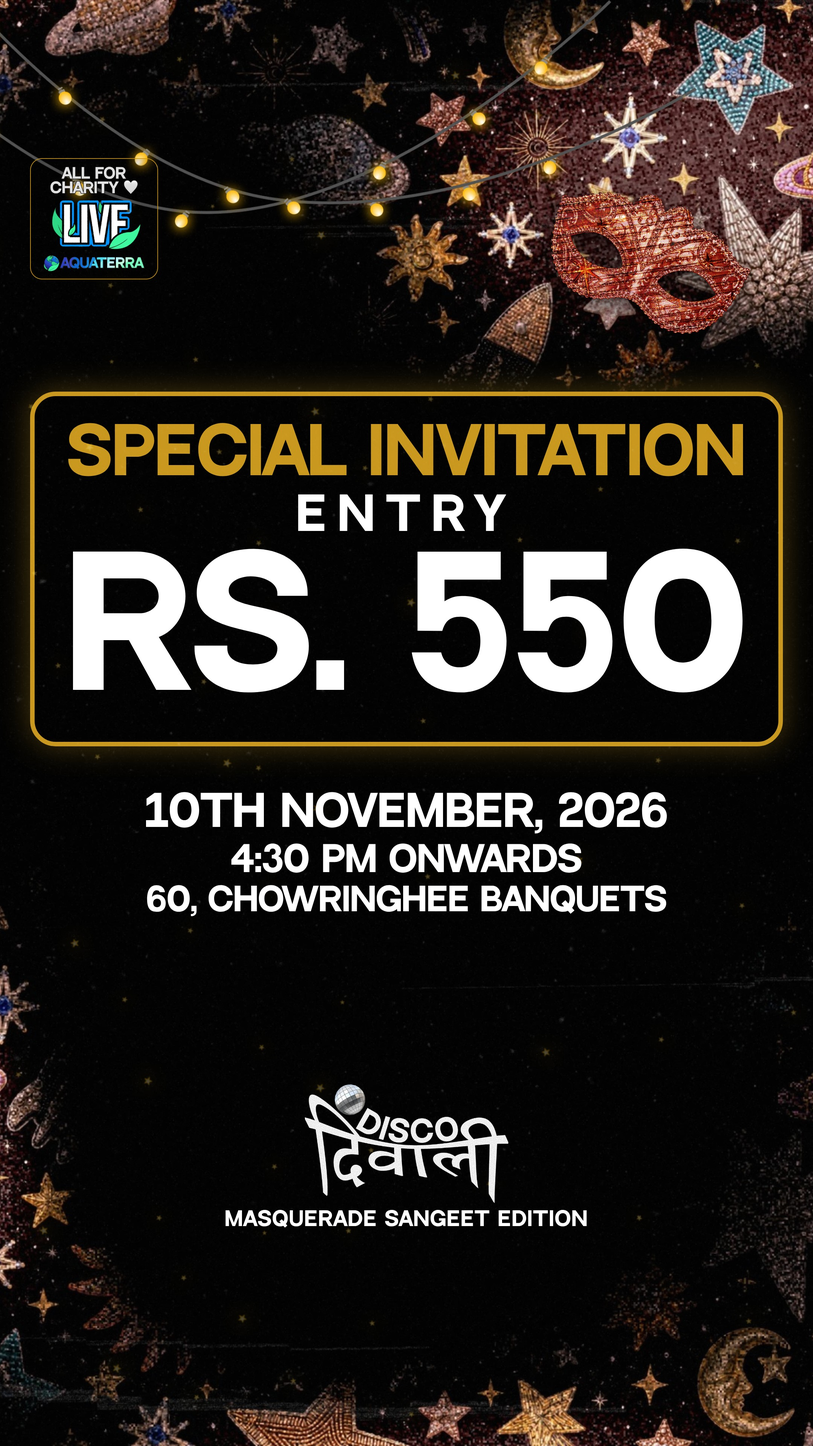
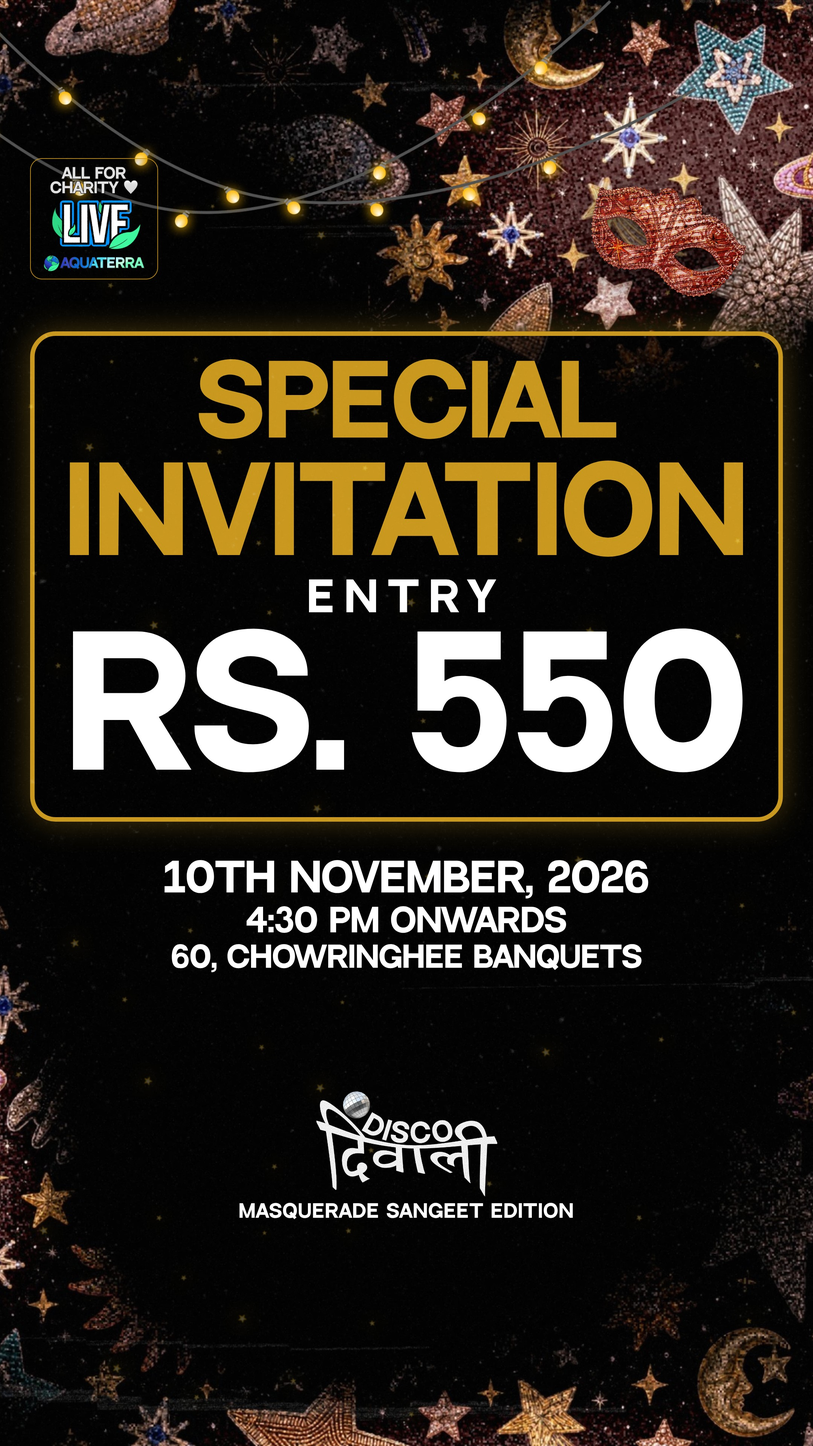
Special invitation poster v4: SPECIAL over a full-width INVITATION, larger
Claude-Session: https://claude.ai/code/session_01Hjb3YdETYzUX9KQBuy3LJ5

Changed region(s): [[0.031, 0.125, 0.9926, 0.6875], [0.2792, 0.75, 0.7134, 0.8438]]

diff --git a/scratchpad/dd_invite2.py b/scratchpad/dd_invite2.py
@@ -23,24 +23,28 @@ async def build(H):
     top = 210 if story else 44
     s.parts.append(f'<img data-tag="badge" src="{dd.uri("live_badge.png")}" style="position:absolute;left:40px;top:{top}px;width:170px;z-index:20">')
     s.els.append(("badge", 40, top, 170, round(170 * 1005 / 1061)))
-    s.mask(700, top + 8, 320, 12)
+    s.mask(760, top + 8, 250, 12)
     pw = 1000; px = (W - pw) // 2
-    f1 = await fit("Special invitation", pw - 90, 140); f3 = await fit("Rs. 550", pw - 90, 340); fl = 60
-    pad = 40; gap = 10
-    ph = pad + f1 + gap + fl + gap + f3 + pad
-    py = (520 if story else 330)
+    f_sp = await fit("Special", 560, 150); f_inv = await fit("Invitation", pw - 90, 240); f3 = await fit("Rs. 550", pw - 90, 340); fl = 54
+    pad = 34; gap = 8
+    py = (440 if story else 250)
+    room = (790 if story else 745)                             # panel height available: the fee takes what the invitation lines leave
+    f3 = min(f3, room - 2 * pad - f_sp - f_inv - fl - 3 * gap)
+    ph = pad + f_sp + gap + f_inv + gap + fl + gap + f3 + pad
+    print(f"   sizes: special {f_sp}, invitation {f_inv}, label {fl}, fee {f3}; panel {ph}px")
     s.add("panel", px, py, pw, ph, f'<div style="height:{ph}px;border-radius:34px;border:6px solid {GOLD};box-sizing:border-box;background:rgba(0,0,0,.62);box-shadow:0 0 40px rgba(201,151,28,.35),0 16px 40px rgba(0,0,0,.6)"></div>', z=15, declare=False)
     s.els.append(("panel", px, py, pw, ph))
-    y = s.text("invite", "Special invitation", py + pad, f1, color=GOLD, x=px, w=pw)
+    y = s.text("invite1", "Special", py + pad, f_sp, color=GOLD, x=px, w=pw)
+    y = s.text("invite2", "Invitation", y + gap, f_inv, color=GOLD, x=px, w=pw)
     y = s.text("label", "Entry", y + gap, fl, x=px, w=pw, stroke=4, ls=.25)
     y = s.text("fee", "Rs. 550", y + gap, f3, x=px, w=pw, stroke=6)
-    iy = py + ph + (60 if story else 34)
-    y = s.text("when", "10th November, 2026", iy, 56 if story else 50, stroke=3) + 12
-    y = s.text("clock", "4:30 PM onwards", y, 46 if story else 40, stroke=3) + 10
-    y = s.text("venue", "60, Chowringhee Banquets", y, 42 if story else 36, stroke=3)
-    vw = 270 if story else 220; ly = (1440 if story else 1128)
+    iy = py + ph + (50 if story else 24)
+    y = s.text("when", "10th November, 2026", iy, 52 if story else 46, stroke=3) + 10
+    y = s.text("clock", "4:30 PM onwards", y, 42 if story else 38, stroke=3) + 8
+    y = s.text("venue", "60, Chowringhee Banquets", y, 38 if story else 34, stroke=3)
+    vw = 240 if story else 190; ly = (1450 if story else 1158)
     end = s.lockup(W // 2, ly, vw)
-    s.text("edition", E.EDITION, end + 10, 26 if story else 22, stroke=2, ls=.04)
+    s.text("edition", E.EDITION, end + 8, 24 if story else 20, stroke=2, ls=.04)
     return s, (y, ly)
 
 
